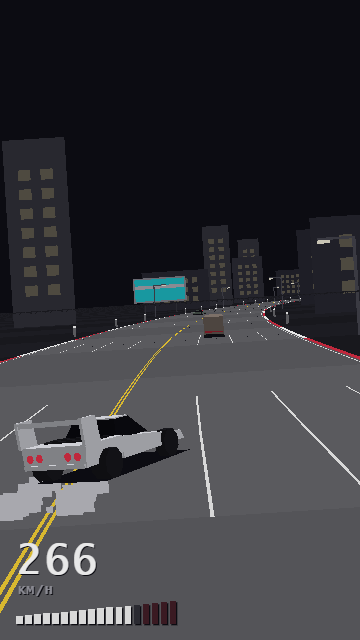
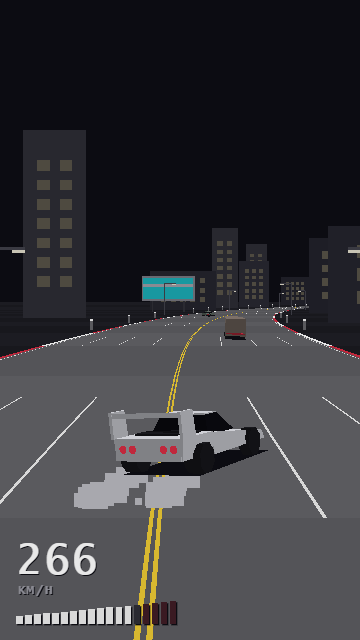
Camera fixed behind the car in drift (cameraOffset 0, rollDeg 0) on the author's feedback

diff --git a/docs/brief.md b/docs/brief.md
@@ -82,7 +82,7 @@
 - **R23.** Буст от дрифта [гипотеза 1B] — флаг; по умолчанию выключен, на этапе 2 не реализуется.
 - **R25.** (рендер) [запрос автора 2026-11-19] Машина игрока — простая низкополигональная 3D-модель (клиновидный суперкар 80-х с большим задним крылом), а не спрайт: в дрифте реально поворачивается вокруг вертикальной оси. Дорога остаётся псевдо-3D.
 - **R26.** (рендер) [решение автора 2026-11-19: «поворачивать машину по реальному боковому движению», «машинам не хватает веса»] Вне дрифта модель повёрнута не по рулю, а по фактическому боковому движению машины относительно дороги: рыскание пропорционально `dx/dt` (с учётом сноса R13), а не `steer`. Вес: рыскание, крен (от бокового ускорения) и тангаж (от разгона, торможения и «бампа») сглажены с постоянными времени из данных; крен наружу поворота.
-- **R27.** (рендер) [запрос автора 2026-11-19, референс — Slipstream] Камера в дрифте плавно смещается вбок (машина заметно уходит от центра экрана в сторону, противоположную повороту) и наклоняется: горизонт кренится на угол, пропорциональный `angle`. Возврат плавный. Наклон применяется ко всей картинке (дорога, объекты, машины), интерфейс не наклоняется.
+- **R27.** (рендер) [запрос автора 2026-11-19, референс — Slipstream; **выключено 2026-11-19 по отзыву автора** («камера уезжает вбок и не возвращается при смене направления дрифта — зафиксируем обратно за машиной»): `cameraOffset` 0, `rollDeg` 0 до исправления] Камера в дрифте плавно смещается вбок (машина заметно уходит от центра экрана в сторону, противоположную повороту) и наклоняется: горизонт кренится на угол, пропорциональный `angle`. Возврат плавный. Наклон применяется ко всей картинке (дорога, объекты, машины), интерфейс не наклоняется.
 - **R28.** (интерфейс) [запрос автора 2026-11-19] В левом нижнем углу спидометр: число в км/ч (`vmax` = `vmaxKmh` из данных) и шкала; при ускорении от потока шкала уходит в зону буста. Интерфейс включается и выключается отдельно от игрового слоя.
 - **R24.** (рендер, не симуляция) В DRIFT модель машины повёрнута на угол из симуляции: `angle` × `yawMaxDeg` (рендер только сглаживает кадры, сам угол не придумывает); камера отстаёт по `x`; из-под колёс — дым. Все числа — в `src/data`.
 
@@ -151,7 +151,7 @@
 | H8 | Вращение мира | отложено, фон статичен |
 | H9 | Особая перспектива ближнего слоя | не определена |
 | H10 | Цена вылета с дороги | B: вне дороги падают сцепление и отклик руля (R15b). A: только потеря скорости (R15). Смотрим: бот-новичок без тормоза должен быть медленнее бота, который тормозит; автору — не раздражает ли вылет |
-| H14 | Модель вождения | B (старт, решение автора 2026-11-19): «курс и скольжение», R80–R89 (`model` 1). A: прежняя модель боковой скорости (`model` 0). Переключается в dev-панели |
+| H14 | Модель вождения | B (старт, решение автора 2026-11-19): «курс и скольжение», R80–R89 (`model` 1). A: прежняя модель боковой скорости (`model` 0, `?model=a`). [2026-11-19, плейтест B: «очень резкие повороты, дрифт резко уходит вбок и выезжает с трассы, практически неиграбельно» — но модель A не возвращаем: «была лучше, но спорной и в 2.5D, нам такое мало подходит». Модель B успокаивается, см. R89c.] |
 | H12 | Срыв дрифта без угла | B (старт, решение автора 2026-11-19): дрифт держится до отпускания (`driftAutoExit` 0). A: срывается сам при малом угле (R21) |
 | H11 | Дрифт на обочине | B: дрифт работает и вне дороги, цена — скорость (R21b). A: вне дороги в дрифт не войти, через `driftOffroadTime` он срывается. Переключатель — параметр машины `driftOffroad` (1 / 0) в dev-панели |
 

diff --git a/docs/balance.md b/docs/balance.md
@@ -216,3 +216,4 @@
 | 2026-11-19 | `bots.json`: `bSteerGain` 1.5, `bSteerDamp` 0.4, `bCurveGain` 0.2, `bLookahead` 0.3, `bDriftSteerGain` 0.5, `bDriftSteerDamp` 0.15, `bDriftCurveGain` 0.09, `bGripMargin` 0.9, `bFlickLook` 0.35, `bReleaseLook` 0.25, `bReleaseFrac` 0.6, `bDipSteer` 0.3, `bDipTime` 0.03, `bKickTime` 0.06 (все уровни) | — | [старт] | H14: водитель модели B без инверсии формул — руль от ошибки линии, демпфирования по `vx` и кривизны впереди; дрифт там, где `A > velGrip*slipGripMax*bGripMargin`; уровни различаются задержкой, шумом и линиями, как раньше. Кривизна: руль удержания в спайке ≈0.21·`curve·sp` в GRIP и ≈0.09 в DRIFT | `npm run bot` (20 сидов): novice 129.4 / average 88.8 / expert 84.1 с; дрифт 0 / 0.84 / 0.86 |
 | 2026-11-19 | `cars/base.json`: `offroadVelMul` (модель B, R84; вместо `offroadSteerMul` 0.6) | 0.6 | 1 [старт] | R84: вне дороги в GRIP `g` и `smax` × 0.6 прижимали машину к стенке — с `medium` на `vmax` не вернуться; цена обочины теперь только R15. Варианты (g и smax × 0.6 / нет / только smax / только g): возврат по гейту 8.79 / 0.55 / 3.63 / 3.92 с; вылет на `medium` с полным рулём — на асфальте 8.85 (0.35 vmax) / 1.14 (0.68) / 3.66 / 3.97 с, на ≥ 0.8 vmax — никогда / 1.72 / 5.40 / 5.78 с; novice у стенки 50.2 / 12.0 / 32.9 / 32.3 с за круг | замер скриптом по сценарию гейта и боту novice (5 сидов); `npm run gate` |
 | 2026-11-19 | `bots.json`: `bTrafficGain` | — | 1 / 1 / 2 (novice / average / expert) [старт] | R46: множитель усиления линии, пока бот ведёт к просвету рядом с трафиком; перебор 1/2/3 на 8 сидах: expert 1.42 / 1.08 / 1.29 касания за круг, average хуже с ростом | `npm run bot` (20 сидов, трафик): касаний за круг average 3.22, expert 1.45 → 1.23, `expert-blind` 3.82; в модели A было 0.80 / 0.78 / 3.95 |
+| 2026-11-19 | `sprites.json`: `drift.cameraOffset` / `driftCamera.rollDeg` | 0.19 / 6 | 0 / 0 | отзыв автора: камера уезжает вбок и не возвращается при смене направления дрифта; камера зафиксирована за машиной до исправления | плейтест автора |
